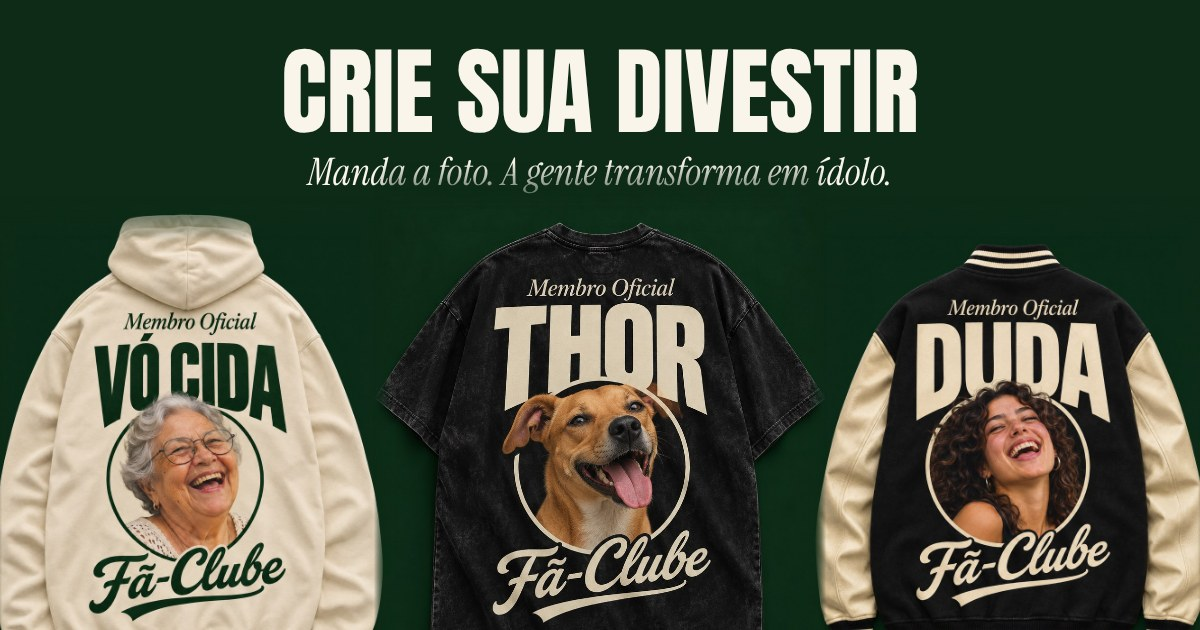
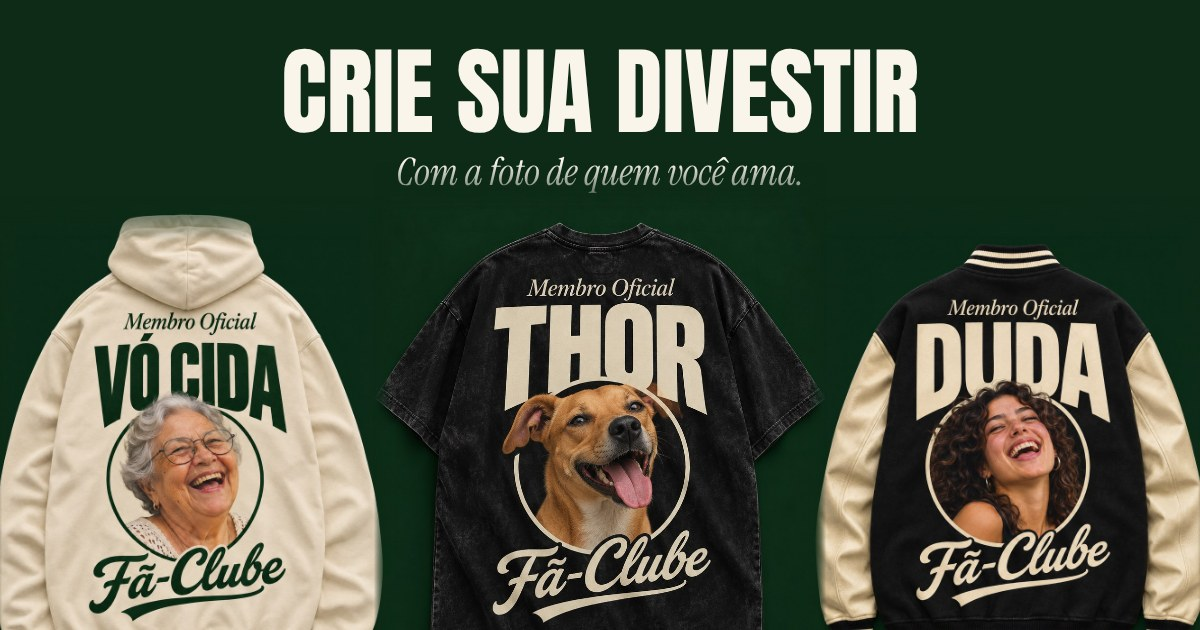
Foto melhor em vez de estampa pior, emoji fora do nome e devolução automática do pagamento em dobro
- Aviso de qualidade: pede uma foto maior ou tirada mais de perto; na foto sem qualidade, o botão principal vira "Escolher outra foto".
- Nome: emoji e símbolos nem entram no campo, com aviso.
- Pagamento em dobro: o site devolve o segundo pagamento sozinho pelo Mercado Pago, depois de conferir o que vale.
- Imagem do link sem a frase do "ídolo".

Claude-Session: https://claude.ai/code/session_01VmZ9S1Nzpe73xMRQZaAZLS

Changed region(s): [[0.2467, 0.2413, 0.74, 0.3016]]

diff --git a/src/app/montar/passo-foto.tsx b/src/app/montar/passo-foto.tsx
@@ -102,8 +102,9 @@ function ResultadoDaChecagem({ envio }: { envio: EnvioDaFoto }) {
 }
 
 // O aviso da definição: foto pequena, quem aparece pequeno nela ou muito zoom dão
-// poucos pontos para a peça impressa. Não trava: a equipe ainda revisa a arte.
-// Quando ele aparece, o selo da foto inteira ("Foto perfeita") sai de cena.
+// poucos pontos para a peça impressa. O tamanho e a qualidade da estampa são os da
+// Divestir: quem se adapta é a foto, então o aviso pede uma foto melhor (decisão do
+// Lucas, 09/11/2026). Quando ele aparece, o selo "Foto perfeita" sai de cena.
 function AvisoDaDefinicao({ nivel, zoom }: { nivel: Definicao['nivel']; zoom: number }) {
   if (nivel === 'boa') return null;
   const comZoom = zoom > 1.001;
@@ -112,11 +113,11 @@ function AvisoDaDefinicao({ nivel, zoom }: { nivel: Definicao['nivel']; zoom: nu
       <IconeAlerta className="mt-[3px] shrink-0" />
       {nivel === 'media'
         ? comZoom
-          ? 'Com esse zoom, a estampa pode perder um pouco de definição.'
-          : 'Do jeito que está, a estampa pode perder um pouco de definição. Uma foto maior ou mais de perto fica melhor.'
+          ? 'Com esse zoom, a foto fica no limite da qualidade da nossa estampa. Para aproximar assim, manda uma foto tirada mais de perto.'
+          : 'Essa foto está no limite da qualidade da nossa estampa. Se tiver uma maior ou tirada mais de perto, manda ela.'
         : comZoom
-          ? 'Com esse zoom, a estampa vai sair sem definição. Diminui o zoom ou manda uma foto mais de perto.'
-          : 'Essa foto tem pouca definição para o tamanho da estampa. Uma foto maior ou mais de perto resolve.'}
+          ? 'Com esse zoom, a foto não tem qualidade para a nossa estampa. Para aproximar assim, manda uma foto tirada mais de perto.'
+          : 'Essa foto não tem qualidade para a nossa estampa. Manda uma maior ou tirada mais de perto.'}
     </p>
   );
 }
@@ -358,14 +359,26 @@ export function PassoFoto({
             </div>
           ) : null}
           <ControlesDoAjuste foto={foto} definicao={definicao} aoEnquadrar={aoEnquadrar} idDaDica={idDaDica} />
-          <div className="mt-5 flex flex-wrap items-center gap-x-6 gap-y-1">
-            <button type="button" onClick={aoAprovar} className="ingresso w-full sm:w-auto">
-              Ficou ótimo
-            </button>
-            <button type="button" onClick={escolher} className={linkDeTexto}>
-              Trocar a foto
-            </button>
-          </div>
+          {definicao === 'baixa' ? (
+            // Abaixo da qualidade da estampa, o caminho principal é mandar outra foto.
+            <div className="mt-5 flex flex-wrap items-center gap-x-6 gap-y-1">
+              <button type="button" onClick={escolher} className="ingresso w-full cursor-pointer sm:w-auto">
+                Escolher outra foto
+              </button>
+              <button type="button" onClick={aoAprovar} className={linkDeTexto}>
+                Usar essa mesmo assim
+              </button>
+            </div>
+          ) : (
+            <div className="mt-5 flex flex-wrap items-center gap-x-6 gap-y-1">
+              <button type="button" onClick={aoAprovar} className="ingresso w-full sm:w-auto">
+                Ficou ótimo
+              </button>
+              <button type="button" onClick={escolher} className={linkDeTexto}>
+                Trocar a foto
+              </button>
+            </div>
+          )}
           <p className="mt-1 max-w-[38ch] text-[0.9375rem] leading-snug">
             Confere se o recorte pegou tudo: orelhas, cabelo, rabo. Se cortou algo importante, é melhor trocar a foto.
           </p>

diff --git a/src/app/montar/passos.tsx b/src/app/montar/passos.tsx
@@ -1,9 +1,9 @@
 'use client';
 
 import Image from 'next/image';
-import { useId, type ReactNode } from 'react';
+import { useId, useState, type ReactNode } from 'react';
 import type { Catalogo, Cor, Peca } from '@/lib/catalogo';
-import { limparTextoDaEstampa, temSimboloForaDaEstampa, type Campo } from '@/lib/molde/tipos';
+import { temSimboloForaDaEstampa, tirarSimbolosDaEstampa, type Campo } from '@/lib/molde/tipos';
 import { IconeAlerta, IconeSim } from './icones';
 import { linkDeTexto } from './passo-foto';
 import { TelaDaPrevia, type ArteDaPrevia } from './tela-da-previa';
@@ -126,9 +126,18 @@ export function PassoNome({
 }) {
   const id = useId();
   const max = campo?.max ?? 10;
-  // Emoji e símbolos não existem na fonte da estampa: o que sobra é o que vai impresso.
-  const limpo = limparTextoDaEstampa(valor);
-  const sobrou = temSimboloForaDaEstampa(valor);
+  const [tirou, setTirou] = useState(false);
+
+  // Emoji e símbolos não existem na fonte da estampa (confirmado pelo Lucas,
+  // 10/11/2026): eles nem entram no campo, e um aviso explica. Enquanto o teclado
+  // ainda está montando uma letra (o acento antes da vogal), nada é mexido.
+  function mudar(bruto: string, montando: boolean) {
+    if (montando) return aoMudar(bruto.slice(0, max));
+    // O aviso fica até a pessoa voltar ao campo: sumir na letra seguinte seria rápido demais.
+    if (temSimboloForaDaEstampa(bruto)) setTirou(true);
+    aoMudar(tirarSimbolosDaEstampa(bruto).slice(0, max));
+  }
+
   return (
     <>
       <label htmlFor={`${id}-nome`} className="block text-base leading-snug font-semibold">
@@ -138,7 +147,12 @@ export function PassoNome({
         id={`${id}-nome`}
         type="text"
         value={valor}
-        onChange={(evento) => aoMudar(evento.target.value.slice(0, max))}
+        onChange={(evento) => mudar(evento.target.value, (evento.nativeEvent as InputEvent).isComposing === true)}
+        onCompositionEnd={(evento) => mudar(evento.currentTarget.value, false)}
+        onFocus={() => setTirou(false)}
+        onBlur={(evento) => {
+          if (temSimboloForaDaEstampa(evento.currentTarget.value)) mudar(evento.currentTarget.value, false);
+        }}
         onKeyDown={(evento) => {
           if (evento.key === 'Enter') evento.currentTarget.blur();
         }}
@@ -153,17 +167,14 @@ export function PassoNome({
       <p id={`${id}-ajuda`} className="mt-2 text-[0.9375rem] leading-snug">
         Até {max} letras, como Thor, Vó Cida ou Duda.
       </p>
-      {sobrou ? (
-        <p
-          role="status"
-          className="mt-2 flex max-w-[38ch] items-start gap-2 text-[0.9375rem] leading-snug font-semibold"
-        >
-          <IconeAlerta className="mt-[3px] shrink-0" />
-          {limpo
-            ? `Emoji e símbolos não saem na estampa. Na peça vai assim: ${limpo.toLocaleUpperCase('pt-BR')}`
-            : 'Emoji e símbolos não saem na estampa. Escreve o nome com letras?'}
-        </p>
-      ) : null}
+      <div aria-live="polite">
+        {tirou ? (
+          <p className="mt-2 flex max-w-[38ch] items-start gap-2 text-[0.9375rem] leading-snug font-semibold">
+            <IconeAlerta className="mt-[3px] shrink-0" />
+            Emoji e símbolos não saem na estampa: o nome vai só com letras e números.
+          </p>
+        ) : null}
+      </div>
     </>
   );
 }

diff --git a/src/lib/pedidos.ts b/src/lib/pedidos.ts
@@ -4,7 +4,13 @@ import type { PecaDoCheckout, PedidoCriado, PedidoDoCheckout, SituacaoDoPedido }
 import { ESPACO_DAS_FOTOS, ehCodigo } from './foto/espaco';
 import { cotarFrete, FreteIndisponivel } from './frete';
 import { MAX_PECAS_POR_PEDIDO, PRAZO_EM_TEXTO, precoDaPeca, precoDoPresente, somar } from './loja';
-import { buscarPagamento, pagamentoEmTeste, situacaoDoPagamento, type SituacaoDoPagamento } from './mercadopago';
+import {
+  buscarPagamento,
+  devolverPagamento,
+  pagamentoEmTeste,
+  situacaoDoPagamento,
+  type SituacaoDoPagamento,
+} from './mercadopago';
 import { LIMITE_DO_CARTAO } from './montagem/tipos';
 import { ehConfigDoMolde, ladosDaPeca, limparTextoDaEstampa, type AreasDaPeca, type Lado } from './molde/tipos';
 import { criarClienteAdmin } from './supabase/admin';
@@ -398,13 +404,41 @@ export async function registrarPagamento(
     console.error('pedidos: a rotina registrar_pagamento falhou', error.message);
     throw new PedidoRecusado('Não consegui registrar o pagamento agora.', 502);
   }
-  if (data === 'pago_em_dobro') {
-    // O cliente pagou duas vezes o mesmo pedido: a equipe precisa devolver um dos dois.
+  if (data === 'pago_em_dobro') await devolverEmDobro(pedido.numero, situacao.id);
+  return String(data);
+}
+
+// O cliente pagou duas vezes o mesmo pedido (por exemplo, o Pix caiu depois de ele
+// já ter pago com o cartão): o segundo pagamento volta para ele na hora, sozinho
+// (decisão do Lucas, 10/11/2026). Antes de devolver, o site confere no Mercado Pago
+// que o pagamento que vale para o pedido continua aprovado; se não estiver, não
+// devolve nada e deixa o caso nos registros para a equipe olhar.
+async function devolverEmDobro(numero: number, pagamentoRepetido: string) {
+  try {
+    const pedido = await lerPedidoPorNumero(numero);
+    const queVale = pedido?.pagamento_id && pedido.pagamento_id !== pagamentoRepetido ? pedido.pagamento_id : null;
+    const aprovado = queVale ? (await buscarPagamento(queVale))?.status === 'approved' : false;
+    if (!aprovado) {
+      console.error(
+        `pedidos: COBRANÇA EM DOBRO no pedido ${numero} (pagamento ${pagamentoRepetido}), mas não consegui confirmar o pagamento que vale. NÃO devolvi: conferir no Mercado Pago.`,
+      );
+      return;
+    }
+    if (await devolverPagamento(pagamentoRepetido)) {
+      console.error(
+        `pedidos: cobrança em dobro no pedido ${numero}: o pagamento ${pagamentoRepetido} foi devolvido ao cliente (vale o ${queVale}).`,
+      );
+    } else {
+      console.error(
+        `pedidos: COBRANÇA EM DOBRO no pedido ${numero}: o Mercado Pago não aceitou devolver o pagamento ${pagamentoRepetido}. Devolver por lá.`,
+      );
+    }
+  } catch (motivo) {
     console.error(
-      `pedidos: COBRANÇA EM DOBRO no pedido ${pedido.numero} (pagamento ${situacao.id}). Devolver pelo Mercado Pago.`,
+      `pedidos: COBRANÇA EM DOBRO no pedido ${numero} (pagamento ${pagamentoRepetido}): a devolução falhou. Devolver pelo Mercado Pago.`,
+      motivo,
     );
   }
-  return String(data);
 }
 
 // Pergunta ao Mercado Pago como está o pagamento atual de um pedido ainda não pago

diff --git a/src/lib/molde/tipos.ts b/src/lib/molde/tipos.ts
@@ -115,13 +115,17 @@ export const LARGURA_DA_ARTE = 1000;
 export const temSimboloForaDaEstampa = (valor: string) =>
   /[^\p{Script=Latin}\p{Nd} .\-'&!\u2018\u2019]/u.test(valor.normalize('NFC'));
 
-export function limparTextoDaEstampa(valor: string) {
+// Tira só o que não sai na estampa, sem mexer nos espaços (para usar enquanto a
+// pessoa digita).
+export function tirarSimbolosDaEstampa(valor: string) {
   return valor
     .normalize('NFC')
     .replace(/[\u2018\u2019]/g, "'")
-    .replace(/[^\p{Script=Latin}\p{Nd} .\-'&!]/gu, '')
-    .replace(/ {2,}/g, ' ')
-    .trim();
+    .replace(/[^\p{Script=Latin}\p{Nd} .\-'&!]/gu, '');
+}
+
+export function limparTextoDaEstampa(valor: string) {
+  return tirarSimbolosDaEstampa(valor).replace(/ {2,}/g, ' ').trim();
 }
 
 // As tintas da estampa: as cores da marca.

diff --git a/src/lib/mercadopago.ts b/src/lib/mercadopago.ts
@@ -111,6 +111,17 @@ export async function cancelarPagamento(id: string) {
   }
 }
 
+// Devolve um pagamento inteiro a quem pagou (estorno). A chave é a do próprio
+// pagamento: pedir de novo não devolve duas vezes.
+export async function devolverPagamento(id: string) {
+  const { resposta } = await chamar(`/v1/payments/${encodeURIComponent(id)}/refunds`, {
+    method: 'POST',
+    body: '{}',
+    idempotencia: `devolucao-${id}`,
+  });
+  return resposta.ok;
+}
+
 export type SituacaoDoPagamento = {
   id: string;
   situacao: string;

diff --git a/CLAUDE.md b/CLAUDE.md
@@ -46,7 +46,7 @@ O briefing completo está em `docs/divestir-briefing.md`. Ele é a fonte da verd
 - Montador (Etapa 5): uma página só em `/montar` (`src/app/montar/`), com a prévia fixa (`doca.tsx`: a vista grande, as vistas pequenas e as cores) e os 7 passos do briefing (`passos.tsx`, `passo-foto.tsx`, `passo-design.tsx`, `passo-resumo.tsx`). As escolhas e o que falta para o carrinho saem de `estado.ts`. O endereço antigo `/montar/foto` leva para `/montar` (`next.config.ts`). A página recebe o catálogo e os designs ativos do servidor (`page.tsx`).
 - Guia e checagem da foto (passo 2): o guia da foto perfeita do briefing (`src/app/montar/guia.tsx`), com 8 dicas e um par "assim sim / assim não" por dica, numa fila que desliza e termina na dica de ouro; as fotos ilustrativas ficam em `public/guia/` (códigos em `docs/fotos-do-guia.md`). A dica "Nada na frente" entrou depois do teste com as fotos reais (decisão do Lucas, 08/11/2026). A checagem roda no próprio aparelho do cliente, sem enviar nada, em `src/lib/foto/checar.ts`: formato, até 20 MB, resolução pelo lado menor (2.000 px perfeita, 1.000 px mínima) e nitidez (limite 80, calibrado em 08/11/2026 com 72 fotos nítidas e borradas). O aviso amarelo do briefing virou ícone e frase, porque a paleta é fechada.
 - Revisão geral (09/11/2026, pedida pelo Lucas): consertos e melhorias depois de um diagnóstico do site inteiro. O que mudou está nos itens abaixo ("envio da original", "peça que já está no carrinho", "definição da estampa", "nome limpo", "arco do nome e janela da foto") e no `DESIGN.md`. Páginas de erro em português: `src/app/not-found.tsx` e `src/app/error.tsx`. Proteções do navegador (`headers()` em `next.config.ts`): nenhum site embute a loja numa moldura. A imagem do link compartilhado é `src/app/opengraph-image.jpg`, feita pelo `scripts/gerar-imagem-do-link.mjs` (precisa do Playwright; `TITULO` e `LINHA` trocam os textos).
-- Enquadramento: feito em cima do próprio design. Com o recorte pronto, a vista grande fica "De perto" e vira o ajuste (`src/app/montar/tela-da-previa.tsx`): arrastar, pinça de dois dedos, botões de zoom (de 50% a 400%), Ctrl + rodinha no computador e teclado. As contas ficam em `src/lib/foto/enquadramento.ts`, e `janelaDaFotoNaTela` (em `src/lib/molde/desenhar.ts`) diz onde a janela da foto está na prévia. O protagonista é achado pelos pixels opacos do recorte e começa centralizado. O enquadramento é guardado em frações do quadro de 4:5. Depois de "Ficou ótimo", a prévia trava e aparece "Ajustar o enquadramento". Definição da estampa (`src/lib/foto/definicao.ts`): além da checagem da foto inteira, o ajuste avisa quando quem aparece tem poucos pontos para o tamanho impresso, contando o zoom (abaixo de 150 pontos por polegada, aviso leve; abaixo de 100, aviso forte; não trava). Cada foto guarda `escalaDaOriginal` (pixels da original por pixel do recorte). A largura impressa vem de `largura_cm` da área da peça ou, sem ela, de 30 cm (`LARGURA_PADRAO_DA_ESTAMPA_CM`, uma premissa até a estamparia confirmar).
+- Enquadramento: feito em cima do próprio design. Com o recorte pronto, a vista grande fica "De perto" e vira o ajuste (`src/app/montar/tela-da-previa.tsx`): arrastar, pinça de dois dedos, botões de zoom (de 50% a 400%), Ctrl + rodinha no computador e teclado. As contas ficam em `src/lib/foto/enquadramento.ts`, e `janelaDaFotoNaTela` (em `src/lib/molde/desenhar.ts`) diz onde a janela da foto está na prévia. O protagonista é achado pelos pixels opacos do recorte e começa centralizado. O enquadramento é guardado em frações do quadro de 4:5. Depois de "Ficou ótimo", a prévia trava e aparece "Ajustar o enquadramento". Definição da estampa (`src/lib/foto/definicao.ts`): além da checagem da foto inteira, o ajuste avisa quando quem aparece tem poucos pontos para o tamanho impresso, contando o zoom (abaixo de 150 pontos por polegada, aviso leve; abaixo de 100, aviso forte). O aviso pede uma foto melhor, porque é a foto que se adapta à estampa (decisão do Lucas, 10/11/2026); no aviso forte, o botão principal vira "Escolher outra foto" e "Usar essa mesmo assim" fica como link (não trava). Cada foto guarda `escalaDaOriginal` (pixels da original por pixel do recorte). A largura impressa vem de `largura_cm` da área da peça ou, sem ela, de 30 cm (`LARGURA_PADRAO_DA_ESTAMPA_CM`, uma premissa até a estamparia confirmar).
 - Estado salvo e carrinho do navegador (`src/lib/montagem/`): a montagem fica no `localStorage` (`divestir:montagem`) e o recorte da foto no IndexedDB do navegador (banco `divestir`, gaveta `recortes`), para a pessoa voltar de onde parou, com a foto. "Adicionar ao carrinho" guarda a peça em `divestir:carrinho`, com o presente de cada peça (`presente: {mensagem}`). "Criar outra Divestir" começa uma montagem nova e oferece para reaproveitar as fotos das peças do carrinho e dos pedidos feitos no aparelho, com o nome junto. Os pedidos feitos no aparelho ficam em `divestir:pedidos` (as peças como estavam, para a página do pedido mostrar as prévias), por 30 dias. Fotos com mais de 30 dias saem do navegador, como saem do banco. Cada foto guarda como foi o envio da original (`original`: enviando, enviada, falhou ou sem vaga); sem a original, o carrinho pede a foto de novo. Envio da original: continua em segundo plano enquanto a pessoa segue, e quem acompanha é a lista de envios da aba (`acompanharEnvio`, em `guardar.ts`), que grava o resultado direto na montagem e nas peças do carrinho guardadas, mesmo com a página do montador escondida. "enviando" só vale enquanto o envio está na lista; fora dela (a aba fechou no meio), conta como falhou. O checkout espera os envios antes de criar o pedido (`esperarEnvios`). Peça que já está no carrinho: a montagem guarda `noCarrinho` (o id da peça que saiu dela); mudar algo depois de adicionar atualiza a mesma peça ("Atualizar a peça do carrinho"), e "Adicionar como outra peça" cria a segunda. Pedido pago tira as peças do carrinho e, se a montagem aberta era uma delas, zera o montador.
 - Páginas escondidas (aprendizado da Etapa 6): com `cacheComponents`, o Next mantém as últimas páginas visitadas montadas e escondidas (`<Activity>` do React), e os efeitos rodam de novo quando a página volta a aparecer. Por isso o montador relê o que está guardado toda vez que aparece, e "Editar" e "Criar outra Divestir" passam a montagem pelo armazenamento do navegador (`prepararEdicao` e `prepararNovaMontagem`, em `src/lib/montagem/guardar.ts`), nunca por parâmetro no endereço com `replaceState` (que troca a página escondida e perde o estado). Efeito que grava no navegador só grava quando o valor muda.
 - Espaço das fotos dos clientes: bucket privado `fotos` no Supabase Storage (migration `espaco_das_fotos`), que só a equipe logada lê. A rota `src/app/api/fotos/route.ts` cria a linha na tabela `fotos`, com `apagar_em` em 30 dias (regra do briefing para montagens nunca compradas), e uma URL assinada de um arquivo só, que vale 2 horas. O navegador envia a foto original direto para o Supabase (`src/lib/foto/guardar.ts`), sem passar pela Vercel; acima de 20 MB, refaz em JPEG. A rota do recorte guarda o `recorte.webp` ao lado. Caminhos: `<sessao>/<foto>/original.<ext>` e `<sessao>/<foto>/recorte.webp`. A sessão é um código aleatório guardado no navegador (`divestir:sessao`). As colunas `original_url` e `recorte_url` guardam o caminho dentro do espaço, não um endereço público. O recorte guardado é o da prévia (até 4 megapixels); o de impressão sai da original na Etapa 7.
@@ -59,7 +59,7 @@ O briefing completo está em `docs/divestir-briefing.md`. Ele é a fonte da verd
 - Site no ar: https://divestir.vercel.app (projeto `divestir` no time LUCCO da Vercel). Cada envio para a branch `main` do GitHub publica o site sozinho. As funções do site rodam em São Paulo (`gru1`, em `vercel.json`), perto do banco. O time está no plano Pro desde 08/11/2026, que permite uso comercial.
 - Recorte de fundo: Photoroom, escolhido pelo Lucas em 08/11/2026, depois do teste com 8 fotos reais. A rota `src/app/api/recorte/route.ts` recebe a foto reduzida pelo celular (`src/lib/foto/recorte.ts`, até 2.048 px, porque a Vercel aceita até 4,5 MB por envio) e devolve o recorte em WebP, já cortado em volta do protagonista. A chave fica só na Vercel (`PHOTOROOM_API_KEY`). Sem `PHOTOROOM_MODO=producao`, roda no modo de teste gratuito do Photoroom: até 100 recortes por dia, com marca d'água. O BiRefNet, que seria a alternativa sem serviço pago, não roda no ambiente de trabalho do Claude: mesmo na versão leve, passa de 6 GB de memória.
 - Carrinho e checkout (Etapa 6): o carrinho em `/carrinho` (`src/app/carrinho/carrinho.tsx`: miniatura montada, "Editar", "Tirar do carrinho" com desfazer, presente por peça com a mensagem do cartão, pedido da foto de novo quando a original não chegou, resumo e a mensagem de prazo); o checkout em `/checkout` (`src/app/checkout/checkout.tsx`: contato com CPF, entrega com busca de CEP pelo ViaCEP e, com presente, "Direto para quem vai ganhar" com o nome de quem recebe, frete com o prazo somado ao da personalização, autorização da foto obrigatória e a de divulgação opcional; o rascunho fica só na aba, em `sessionStorage`); e a página do pedido em `/pedido/[token]` (`src/app/pedido/[token]/`: o pagamento, o Pix aguardando com QR e copia e cola, o cartão em análise e a confirmação com as prévias e o número do pedido). O topo de todas as páginas (`src/app/cabecalho.tsx`) mostra o carrinho com o número de peças. As regras da loja (prazo, preços de teste, presente, parcelas, validade do Pix) ficam em `src/lib/loja.ts`; as conferências e máscaras do formulário em `src/lib/validar.ts`; o que vai e volta entre navegador e servidor em `src/lib/checkout.ts`.
-- Pedido no servidor (`src/lib/pedidos.ts`): confere cada peça no banco, a foto original no espaço privado, refaz os preços e cota o frete de novo antes de gravar pela rotina `criar_pedido` (migration `checkout`). Rotas: `/api/frete` (cotação), `/api/pedidos` (cria o pedido), `/api/pedidos/[token]` (situação, sem endereço nem CPF), `/api/pedidos/[token]/pagamento` (cria o pagamento no Mercado Pago) e `/api/pagamento/aviso` (o aviso do Mercado Pago, só com a assinatura conferida). A rotina `registrar_pagamento` (migrations `checkout` e `registro_dos_pagamentos`) leva o pedido pago a "pago" e "revisão de arte", ignora aviso atrasado de tentativa antiga, devolve `pago_em_dobro` quando outro pagamento é aprovado para um pedido já pago (o site avisa nos registros da Vercel, para a equipe devolver) e tira o prazo de 30 dias das fotos do pedido pago.
+- Pedido no servidor (`src/lib/pedidos.ts`): confere cada peça no banco, a foto original no espaço privado, refaz os preços e cota o frete de novo antes de gravar pela rotina `criar_pedido` (migration `checkout`). Rotas: `/api/frete` (cotação), `/api/pedidos` (cria o pedido), `/api/pedidos/[token]` (situação, sem endereço nem CPF), `/api/pedidos/[token]/pagamento` (cria o pagamento no Mercado Pago) e `/api/pagamento/aviso` (o aviso do Mercado Pago, só com a assinatura conferida). A rotina `registrar_pagamento` (migrations `checkout` e `registro_dos_pagamentos`) leva o pedido pago a "pago" e "revisão de arte", ignora aviso atrasado de tentativa antiga, devolve `pago_em_dobro` quando outro pagamento é aprovado para um pedido já pago (o site devolve o segundo pagamento sozinho pelo Mercado Pago, `devolverEmDobro` em `pedidos.ts`, depois de conferir que o pagamento que vale continua aprovado; decisão do Lucas, 10/11/2026. Cada caso fica nos registros da Vercel, e o que não deu para devolver sozinho fica lá para a equipe) e tira o prazo de 30 dias das fotos do pedido pago.
 - Pagamento (decisão do Lucas, 08/11/2026): Mercado Pago, com o formulário do próprio Mercado Pago na página (Payment Brick, `src/app/pedido/[token]/pagamento-mp.tsx`): Pix (vale 30 minutos) e cartão em até 12 vezes, com os juros por conta de quem compra. O servidor sempre cobra o total do pedido no banco. Sem `PAGAMENTO_MODO=producao`, a loja fica em modo de teste: peças sem preço usam o preço de teste (R$ 100, presente R$ 10), marcados na tela, e o pedido fica marcado como `teste`. No modo de teste, o Pix gera o código mas não dá para pagar; o pedido pago se testa com o cartão de teste (nome APRO). Código em `src/lib/mercadopago.ts`.
 - Frete (decisão do Lucas, 08/11/2026): Melhor Envio (`src/lib/frete.ts`), com o pacote de cada peça na coluna `envio` de `pecas` (uma estimativa até a operação medir; `supabase/seed.sql`). Mostra até três opções: a mais barata, a mais rápida e a próxima mais barata. Sem `MELHORENVIO_TOKEN` ou sem `FRETE_CEP_ORIGEM`, o frete é simulado (R$ 24,90 e R$ 39,90, marcados como simulados). Ligado em 09/11/2026 na conta de verdade (`MELHORENVIO_AMBIENTE=producao`) e testado pelo Lucas no site no ar: cotar não gasta nada, então essa parte não usa a conta de teste. A chave é um token do painel do Melhor Envio (Integrações → Permissões de acesso → Tokens), só com a permissão de cotação (`shipping-calculate`), no lugar do cadastro de app (OAuth, com a chave trocada a cada 30 dias, pensado para plataformas com vários lojistas). O token vale cerca de um ano, e a data de vencimento está dentro dele. As etiquetas vão pedir um token novo com mais permissões, testado antes na conta de teste (sandbox), porque comprar etiqueta gasta saldo. Prazo de personalização: 10 a 15 dias úteis (decisão do Lucas, 08/11/2026).
 - Serviço que ainda falta (tabela "Stack" do briefing): Resend para e-mail (Etapa 9). Antes do lançamento, os termos, a política de privacidade e a política de troca passam por um advogado.
@@ -74,7 +74,7 @@ O briefing completo está em `docs/divestir-briefing.md`. Ele é a fonte da verd
 - A rotina diária que apaga as fotos vencidas (`apagar_em`, briefing "Segurança desde o primeiro dia") ainda não existe. Ela precisa apagar os arquivos pelo Storage do Supabase, não direto na tabela, e entra antes do lançamento, junto com o prazo dos termos para fotos de pedidos entregues.
 - Pedidos que nunca foram pagos ficam no banco como "aguardando pagamento" (cada envio do checkout com dados diferentes cria um). Antes do lançamento: uma rotina que cancela os não pagos depois de alguns dias, e o limite de uso por visitante em `/api/frete`, `/api/pedidos` e `/api/pedidos/[token]/pagamento`.
 - Em aberto com a operação: o preço do presente (`PRECO_DO_PRESENTE` em `src/lib/loja.ts`), o desconto no Pix (`DESCONTO_NO_PIX`, hoje zero; com desconto, o total do pedido passa a depender da forma de pagamento), o parcelamento (hoje até 12 vezes com juros de quem compra; sem juros, a taxa fica com a loja) e as medidas reais do pacote de cada peça e da embalagem de presente.
-- Da revisão geral de 09/11/2026, ficaram para a próxima rodada (todas mexem no banco, e o Lucas já foi avisado): a faxina diária (apagar fotos vencidas e cancelar pedidos não pagos), o limite de uso por visitante, o alerta de cobrança em dobro chegando a alguém e a prévia da peça guardada no servidor (hoje a página do pedido só mostra a imagem no aparelho de quem comprou; a coluna `preview_url` do briefing ainda não é preenchida). O aviso do passo da foto promete apagar em 30 dias a foto de quem não compra: a faxina precisa estar no ar antes de 08/12/2026, quando vence a primeira. Também em aberto com o Lucas: a frase principal da home (ele não quer "merch", que pouca gente entende) e a linha de designs (Turnê, casal, time, amigos, boteco, pets, mães, pais e 3 que servem para tudo).
+- Da revisão geral de 09/11/2026, ficaram para a próxima rodada (todas mexem no banco, e o Lucas já foi avisado): a faxina diária (apagar fotos vencidas e cancelar pedidos não pagos), o limite de uso por visitante, o alerta de cobrança em dobro chegando a alguém (a devolução já é automática desde 10/11/2026; falta o aviso para a equipe quando ela não der certo) e a prévia da peça guardada no servidor (hoje a página do pedido só mostra a imagem no aparelho de quem comprou; a coluna `preview_url` do briefing ainda não é preenchida). O aviso do passo da foto promete apagar em 30 dias a foto de quem não compra: a faxina precisa estar no ar antes de 08/12/2026, quando vence a primeira. Também em aberto com o Lucas: a frase principal da home (ele não quer "merch", que pouca gente entende, nem a ideia de "fã/ídolo"; a imagem do link já saiu com uma linha neutra) e a linha de designs (Turnê, casal, time, amigos, boteco, pets, mães, pais e 3 que servem para tudo).
 - Token do Melhor Envio (criado em 09/11/2026): vence em cerca de um ano. Sem token válido, o checkout não mostra frete e ninguém consegue comprar. O painel da equipe (Etapa 8) deve avisar um mês antes, com a data lida de dentro do token. Para renovar: gerar outro no painel do Melhor Envio, trocar `MELHORENVIO_TOKEN` na Vercel e publicar de novo.
 - Antes de vender de verdade: credenciais de produção do Mercado Pago e `PAGAMENTO_MODO=producao`, o aviso (webhook) cadastrado no modo de produção, o CEP de onde as peças saem de verdade em `FRETE_CEP_ORIGEM` (confirmar com a operação) e as páginas de termos e privacidade (o checkout ainda não tem link para elas).
 
@@ -90,6 +90,6 @@ Decisões da Etapa 5 (Lucas, 08/11/2026): "Adicionar ao carrinho" guarda a peça
 
 Como nasce um molde (decisão do Lucas, 08/11/2026, no lugar do Illustrator do briefing): as partes fixas da arte saem dos modelos de vetor do Higgsfield (Recraft V4.1 ou Ideogram Vector), em SVG, e são limpas para uma tinta só; o que muda a cada pedido (nome, foto, tinta) é montado no código. O Higgsfield continua sendo onde nascem o conceito e os mockups de cada design.
 
-Fã-Clube: a letra "Fã-Clube" é a opção 1 do Recraft V4.1 (trabalho `153a1848-f6b4-459a-8741-458add71daf9`), escolhida pelo Lucas, e fica em `public/designs/fa-clube/letra.svg`; "Membro Oficial" em Instrument Serif itálica; o nome em Anton, até 10 letras, com o topo reto e a base descendo nas pontas (arco); o anel em volta da foto; e uma folga em volta da letra "Fã-Clube" onde ela passa por cima da foto. Tinta creme na peça preta e verde garrafa na branca e na creme. Arco do nome e janela da foto (09/11/2026): o arco do nome é o da arte (a largura máxima), não o de cada nome, então a base acompanha o círculo e nome curto fica no meio, quase reto; a camada da foto tem `janela` (`escala` 0,92 e `desce` 10), que faz a cabeça chegar encostando na base do nome em vez de cobrir as letras; e o que desce da linha de base (a cedilha) é pintado de novo por cima da foto, com respiro (`descidasDoNome`, em `desenhar.ts`). Nome limpo: só letras, números, espaço e . - ' & ! saem na estampa (`limparTextoDaEstampa`, em `molde/tipos.ts`, usado no montador, no desenho e no servidor); emoji fica de fora, com aviso. O quadro de 4:5 do enquadramento vira uma janela com a largura do diâmetro do círculo e o mesmo centro; na metade de cima, a foto pode passar do círculo até `vaza_acima` (70 unidades), e dali um círculo maior corta, para o nome nunca sumir. Se a cabeça aparecer cortada, é zoom demais: ajustar o enquadramento resolve.
+Fã-Clube: a letra "Fã-Clube" é a opção 1 do Recraft V4.1 (trabalho `153a1848-f6b4-459a-8741-458add71daf9`), escolhida pelo Lucas, e fica em `public/designs/fa-clube/letra.svg`; "Membro Oficial" em Instrument Serif itálica; o nome em Anton, até 10 letras, com o topo reto e a base descendo nas pontas (arco); o anel em volta da foto; e uma folga em volta da letra "Fã-Clube" onde ela passa por cima da foto. Tinta creme na peça preta e verde garrafa na branca e na creme. Arco do nome e janela da foto (09/11/2026): o arco do nome é o da arte (a largura máxima), não o de cada nome, então a base acompanha o círculo e nome curto fica no meio, quase reto; a camada da foto tem `janela` (`escala` 0,92 e `desce` 10), que faz a cabeça chegar encostando na base do nome em vez de cobrir as letras; e o que desce da linha de base (a cedilha) é pintado de novo por cima da foto, com respiro (`descidasDoNome`, em `desenhar.ts`). Nome limpo: só letras, números, espaço e . - ' & ! saem na estampa (`limparTextoDaEstampa`, em `molde/tipos.ts`, usado no montador, no desenho e no servidor); emoji não é possível na estampa (confirmado pelo Lucas, 10/11/2026) e nem entra no campo do nome (`tirarSimbolosDaEstampa`), com aviso. O quadro de 4:5 do enquadramento vira uma janela com a largura do diâmetro do círculo e o mesmo centro; na metade de cima, a foto pode passar do círculo até `vaza_acima` (70 unidades), e dali um círculo maior corta, para o nome nunca sumir. Se a cabeça aparecer cortada, é zoom demais: ajustar o enquadramento resolve.
 
 Frente ou costas (decisão do Lucas, 08/11/2026): o cliente escolhe onde vai a estampa; a jaqueta college só aceita costas (a área dela só tem o lado `costas`). No moletom com capuz, a frente fica entre o fim dos cordões e o bolso, então a estampa da frente é menor.

diff --git a/DESIGN.md b/DESIGN.md
@@ -323,7 +323,7 @@ A página onde a pessoa monta a peça e vê na hora como ela fica: a prévia fix
 - **Passos:** a lista numerada (abaixo), com o título em Inter 600 e, quando o passo está resolvido, um visto e o resumo da escolha ("Camiseta oversized", "Fã-Clube, nas costas"). Um fio verde separa um passo do outro. Ao ir para um passo, ele para logo abaixo da prévia.
 - **1. A peça:** miniaturas da peça na cor escolhida, com nome em Inter 600, caimento em Inter 400 e "a partir de" com o preço, quando houver. A escolhida ganha borda Verde Garrafa de 2px. No celular, a fila desliza com o dedo; no computador, vira uma grade de três colunas.
 - **2. A foto:** a frase em Instrument Serif itálica, o guia da foto perfeita (abaixo) e o ingresso "Escolher a foto" ("Pode ser do álbum ou tirada na hora."), com o aviso em Inter 14px de que a foto serve só para fazer a peça e é apagada em 30 dias se a pessoa não comprar. As fotos que a pessoa já mandou (das peças no carrinho) aparecem antes do guia, em miniatura com o nome, para reaproveitar.
-- **3. O nome:** rótulo em Inter 600 ("Como ele(a) se chama?"), caixa de 48px de altura, contorno Verde Garrafa de 1px, canto de 6px, texto em Inter 600 caixa-alta com 0,04em. Sem texto de exemplo dentro da caixa: o exemplo vem embaixo, em Inter 400 ("Até 10 letras, como Thor, Vó Cida ou Duda."). O nome entra na prévia enquanto a pessoa digita. Emoji e símbolos não existem na fonte da estampa: a caixa aceita, mas um aviso com o ícone de alerta diz como o nome vai na peça ("Na peça vai assim: REX"), e é esse nome limpo que segue para o carrinho e o pedido.
+- **3. O nome:** rótulo em Inter 600 ("Como ele(a) se chama?"), caixa de 48px de altura, contorno Verde Garrafa de 1px, canto de 6px, texto em Inter 600 caixa-alta com 0,04em. Sem texto de exemplo dentro da caixa: o exemplo vem embaixo, em Inter 400 ("Até 10 letras, como Thor, Vó Cida ou Duda."). O nome entra na prévia enquanto a pessoa digita. Emoji e símbolos não existem na fonte da estampa (confirmado pelo Lucas, 10/11/2026): eles nem entram na caixa, e um aviso com o ícone de alerta explica ("Emoji e símbolos não saem na estampa: o nome vai só com letras e números."). O aviso fica até a pessoa voltar à caixa.
 - **4. O design:** miniaturas de cada design já com a foto e o nome do cliente (canto de 12px, borda verde de 2px no escolhido), o nome do design em Inter 600 e, nos designs de drop, o selo "Novo" ou "Últimos dias" (pílula Verde Garrafa cheia, texto creme de 11px). Embaixo, "Prévias ilustrativas, com a sua foto e o nome." Depois, "Onde vai a estampa?" com a pílula "Nas costas / Na frente" (a jaqueta college troca a pílula pela frase "Nessa peça, a estampa vai nas costas.") e, com a estampa nas costas, o aviso do DIVESTIR no peito. Antes da foto, o passo só explica que os designs aparecem ali com ela.
 - **5. A cor:** as três cores lado a lado, já com a estampa na tinta de cada uma (de perto), com o nome embaixo e borda verde de 2px na escolhida.
 - **6. O tamanho:** pílulas de 44px de altura (PP ao GGG) com contorno verde de 1px; a escolhida fica Verde Garrafa com texto creme. "Tabela de medidas" é link de texto e abre a tabela ali mesmo, só nas peças que têm medidas: tamanho em Inter 600, valores em números tabulares, fio verde entre as linhas e, embaixo, como medir.
@@ -334,7 +334,7 @@ A página onde a pessoa monta a peça e vê na hora como ela fica: a prévia fix
 - **Selos "Assim sim" e "Assim não":** pílulas pequenas no canto de baixo da foto. "Assim sim" é Verde Garrafa com texto creme e um visto; "Assim não" é creme com contorno verde de 1px e um xis. O sentido nunca depende só da cor: o ícone e a palavra dizem o mesmo.
 - **Resultado da checagem:** a miniatura da foto escolhida (canto de 12px) e, ao lado, o veredito. "Foto perfeita" é a única pílula verde cheia, com um visto. Aviso e bloqueio são frase em Inter 600 com ícone: um círculo de alerta no aviso e um xis no bloqueio. O briefing pede aviso amarelo, mas a paleta é fechada, então a diferença entre aviso e bloqueio vem do ícone, da frase e do botão, nunca de uma cor nova. Embaixo, a mensagem e o tamanho da foto em números tabulares. Depois vem "Tirando o fundo…".
 - **Enquadramento (signature):** com o recorte pronto, a própria prévia vira o ajuste, já com o design: a vista grande fica "De perto" e a foto se move junto com o dedo. Arrastar move; a pinça de dois dedos dá zoom em volta dos dedos; no computador, a rodinha com Ctrl (ou a pinça do trackpad) faz o mesmo, e sem Ctrl a página rola normalmente. Pelo teclado, a prévia recebe foco: as setas movem, + e − dão zoom e 0 redefine. No passo, o veredito fica curto, uma linha diz como ajustar (o texto muda entre toque e mouse) e vêm os botões de zoom: círculos de 44px com contorno Verde Garrafa de 1px, que acendem em verde com texto creme no hover; no limite do zoom, o contorno fica tracejado em vez de apagar, porque a tinta é única. Entre os botões, a porcentagem em Inter 600 com números tabulares; "Redefinir" é link de texto e só aparece quando há algo para desfazer. Logo depois, o ingresso "Ficou ótimo" e o link "Trocar a foto". O zoom vai de 50% a 400%, e o centro do protagonista nunca sai do quadro. Depois de "Ficou ótimo", a prévia trava e aparece "Ajustar o enquadramento".
-- **Definição da estampa:** embaixo dos botões de zoom, um aviso em Inter 600 com o ícone de alerta aparece quando a foto tem poucos pontos para o tamanho impresso, contando só quem aparece e o zoom ("Com esse zoom, a estampa pode perder um pouco de definição."). Ele muda ao vivo com o zoom, não trava o "Ficou ótimo" e, enquanto aparece, a pílula "Foto perfeita" sai de cena.
+- **Definição da estampa:** embaixo dos botões de zoom, um aviso em Inter 600 com o ícone de alerta aparece quando a foto tem poucos pontos para o tamanho impresso, contando só quem aparece e o zoom. É a foto que se adapta à estampa, não o contrário (decisão do Lucas, 10/11/2026): o aviso pede uma foto melhor ("Essa foto está no limite da qualidade da nossa estampa. Se tiver uma maior ou tirada mais de perto, manda ela."; com zoom, "Para aproximar assim, manda uma foto tirada mais de perto."). No aviso forte ("Essa foto não tem qualidade para a nossa estampa."), o ingresso vira "Escolher outra foto" e seguir com a mesma foto vira link de texto ("Usar essa mesmo assim"). Ele muda ao vivo com o zoom e, enquanto aparece, a pílula "Foto perfeita" sai de cena.
 - **O nome e a cabeça (Fã-Clube):** a base do nome acompanha o círculo da foto, e a foto chega com a cabeça encostando na base das letras, sem cobrir. Nome curto (ZÉ, LU, THOR) fica no meio, quase reto. A cedilha, que desce para dentro do círculo, é pintada de novo por cima da foto, com um respiro em volta, para PAÇOCA nunca virar PACOCA.
 - **Ícones:** desenhados em SVG, com traço de 2px e pontas redondas, na cor do texto. Nunca emoji.
 
@@ -355,7 +355,7 @@ A compra continua no papel creme, com as mesmas peças do montador: lista com fi
 No papel creme, com a marca no topo: título em Anton ("Essa página saiu de cena", "Ops, travou aqui"), uma frase em Instrument Serif itálica, um ingresso (voltar a montar ou tentar de novo) e um link de texto. Nenhuma tela padrão do navegador ou em inglês.
 
 ### Imagem do link
-A imagem que aparece quando o site é compartilhado (1200 × 630): fundo Verde Garrafa, "Crie sua Divestir" em Anton creme, a frase do coração em Instrument Serif itálica e três peças da vitrine saindo pela base. É gerada pelo `scripts/gerar-imagem-do-link.mjs` a partir das fotos da vitrine e das fontes da marca.
+A imagem que aparece quando o site é compartilhado (1200 × 630): fundo Verde Garrafa, "Crie sua Divestir" em Anton creme, uma linha em Instrument Serif itálica ("Com a foto de quem você ama.", neutra até a frase principal ser escolhida) e três peças da vitrine saindo pela base. É gerada pelo `scripts/gerar-imagem-do-link.mjs` a partir das fotos da vitrine e das fontes da marca.
 
 ### Lista numerada (signature)
 - **Style:** números vazados em Anton de 48px, com contorno verde de 1.5px, numa coluna de 28px. Ao lado vêm o título em Inter 600 e o texto em Inter 400. A lista é numerada de verdade no código, e o número desenhado é só visual.
